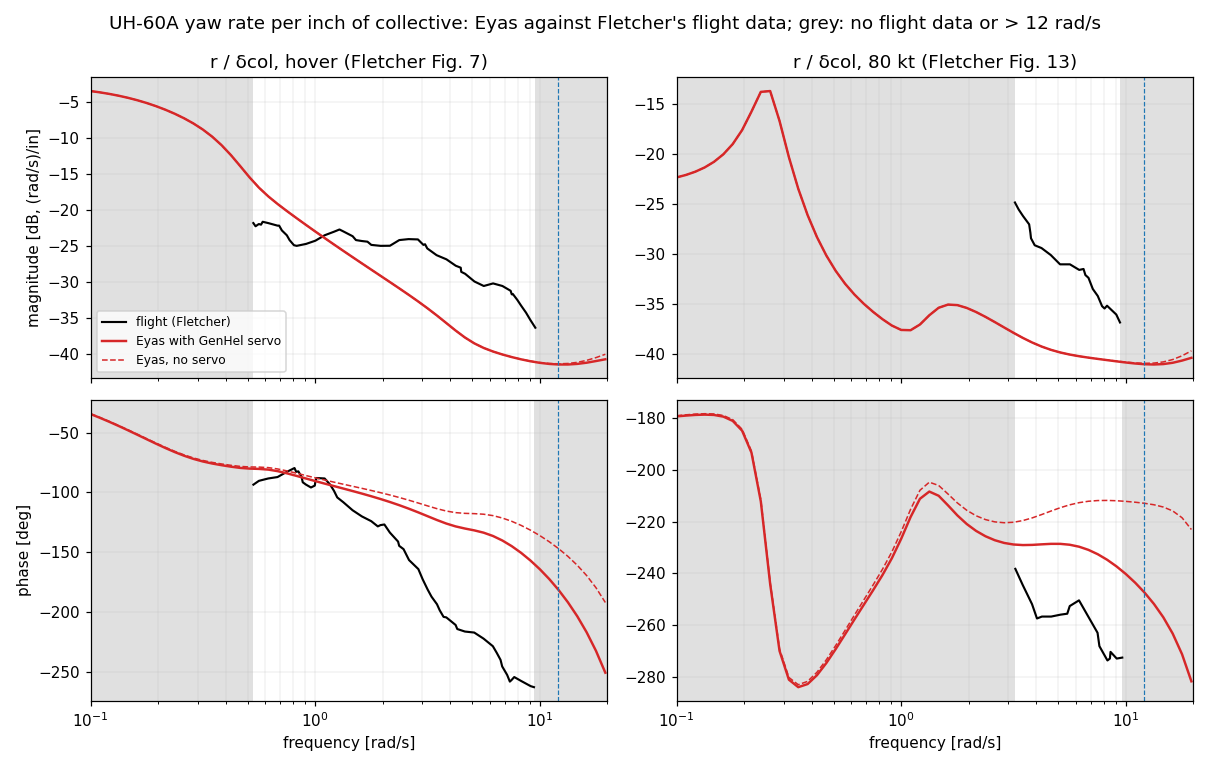
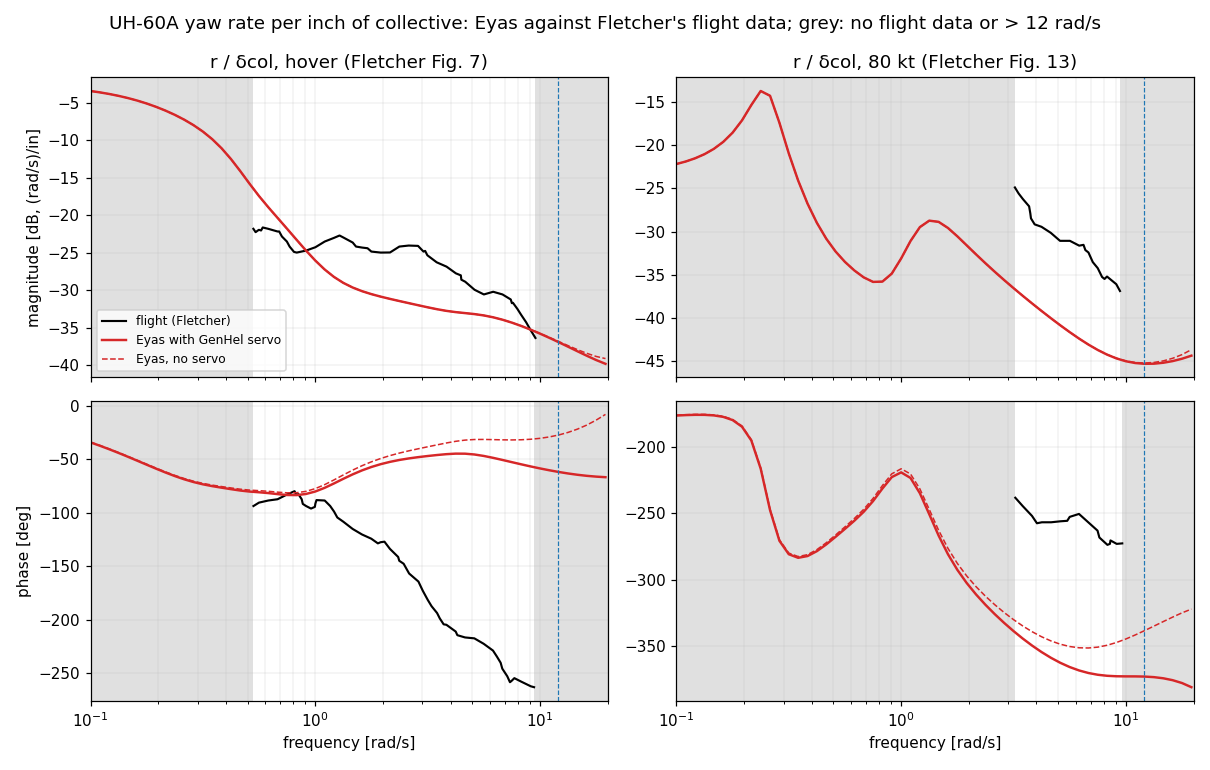
M9 Stage B1 validation: engine trims, collective step, Fletcher and FPS against flight data
- eyas_m9_engine_cases + tools/plot_m9_engines.py (nightly): level trims
  on the engines at sea level and 5250 ft, and a hover collective step
  against the rotor speed held.
- VALIDATION.md M9 Stage B entry: the checks, the trims (0.21 % droop at
  sea-level hover within GenHel's table resolution), the collective step
  (rotor speed first rises, as Ballin reports for GenHel's engine model),
  Fletcher's yaw rate to collective (magnitude closer, phase further off),
  the FPS collective-to-yaw case (unchanged, open), the J_REST correction,
  decisions, timing (step() 6-9 % slower, within budget), and next: Ballin's
  component-level T700 model (NASA TM-100991).
- M7c's Fletcher plots re-recorded on the engines; gap register updated.
- CLAUDE.md: status, src/engine/, the TM-100991 reference.

Claude-Session: https://claude.ai/code/session_01URPo1vS9ZdajqvD2QM5iLx

diff --git a/tests/validation/m9_engine_cases.cpp b/tests/validation/m9_engine_cases.cpp
@@ -1,0 +1,177 @@
+// Writes the M9 Stage B engine data to CSV for VALIDATION.md
+// (tools/plot_m9_engines.py; D-053):
+// - m9_engine_trims.csv: the UH-60A (data/uh60a/uh60a.yaml, GenHel's 16 638
+//   lbm, ISA, bare) in level flight at 0-150 kt, sea level and 5250 ft, each
+//   from the last: the rotor speed and the trim's period, the gas-generator
+//   speed N_GG against the load-demand spindle's N_GG,LDS, the ECU's V_SS (A_U
+//   = 0 V: saturated), the engines' torque per engine at the power turbine and
+//   the governor's mode (Q_INT's limit);
+// - m9_engine_step.csv: from the sea-level and 5250 ft hover trims, a 0.05
+//   collective step (half an inch) held for 10 s, the body free, no
+//   stability augmentation: the rotor speed, the engines' torque Q_E referred
+//   to the rotor, N_GG, the fuel flow and the yaw rate, every 0.05 s; and the
+//   same step with the rotor shaft held at its governed speed (an ideal
+//   drive, Stage A), for the yaw rate the engines change.
+//
+// Usage: eyas_m9_engine_cases <output-dir>
+
+#include <cmath>
+#include <cstdio>
+#include <exception>
+#include <filesystem>
+#include <fstream>
+#include <iostream>
+#include <string>
+#include <vector>
+
+#include "analysis/free_flight.hpp"
+#include "analysis/held_orbit.hpp"
+#include "analysis/trim.hpp"
+#include "core/rigid_body.hpp"
+#include "core/rk4.hpp"
+#include "engine/genhel_t700.hpp"
+#include "sim/build.hpp"
+#include "support/m6d_fixtures.hpp"
+#include "support/m7c_ballin.hpp"
+#include "util/config.hpp"
+#include "util/units.hpp"
+
+namespace {
+
+using namespace eyas;
+
+constexpr double kFtLbf = units::kFoot * units::kPoundForce;  // [N·m]
+constexpr double kLbmHr = units::kPoundMass / 3600.0;         // [kg/s]
+
+Executive build(const Config& cfg) {
+    return build_executive(cfg, read_origin(cfg).origin().altitude);
+}
+
+// The engine component and its offset in the full state, or null.
+struct EngineAt {
+    const GenHelT700* engine = nullptr;
+    std::size_t offset = 0;
+};
+EngineAt find_engine(const Executive& ex) {
+    for (std::size_t i = 0; i < ex.num_components(); ++i) {
+        if (const auto* e = dynamic_cast<const GenHelT700*>(&ex.component(i))) {
+            return {e, ex.component_offset(i)};
+        }
+    }
+    return {};
+}
+
+TrimCondition level(double kt, double feet) {
+    TrimCondition c;
+    c.airspeed = kt * units::kKnot;
+    c.altitude = feet * units::kFoot;
+    return c;
+}
+
+void write_trims(const Executive& ex, const std::filesystem::path& dir) {
+    const EngineAt e = find_engine(ex);
+    std::ofstream f(dir / "m9_engine_trims.csv");
+    f.precision(10);
+    f << "# UH-60A level trims on GenHel's T700s (D-053): rotor speed, N_GG against the "
+         "spindle's schedule, the ECU, the engines' torque\n";
+    f << "altitude_ft,airspeed_kt,converged,collective,rotor_speed_pct,period_s,n_gg_pct,"
+         "n_gg_lds_pct,vss_v,q_pt_per_engine_ftlbf,high_gain\n";
+    for (const double feet : {0.0, 5250.0}) {
+        TrimResult prev;
+        bool have = false;
+        for (int kt = 0; kt <= 150; kt += 10) {
+            std::vector<double> x;
+            const TrimCondition c = level(kt, feet);
+            const TrimResult r = solve_trim(ex, c, have ? &prev : nullptr, x);
+            prev = r;
+            have = r.converged;
+            const double omega = x[ex.shaft_offset(0) + 1];
+            const std::span<const double> xe(x.data() + e.offset, GenHelT700::kNumStates);
+            const GenHelT700Signals s = e.engine->signals(xe, omega, r.controls.collective, 0.0);
+            f << feet << ',' << kt << ',' << (r.converged ? 1 : 0) << ',' << r.controls.collective
+              << ',' << 100.0 * omega / ex.shafts()[0].speed << ',' << r.period << ','
+              << 100.0 * s.n_gg << ',' << 100.0 * s.n_gg_lds << ',' << xe[GenHelT700::kVss] << ','
+              << s.q_pt / kFtLbf << ',' << (s.high_gain ? 1 : 0) << '\n';
+            std::cout << feet << " ft " << kt << " kt: converged " << r.converged << ", Nr "
+                      << 100.0 * omega / ex.shafts()[0].speed << " %\n";
+        }
+    }
+}
+
+// A collective step from the hover trim at `feet`, held for `seconds`: one
+// row every 0.05 s.
+void write_step(std::ofstream& f, const Executive& ex, const std::string& drive, double feet,
+                double step, double seconds) {
+    const EngineAt e = find_engine(ex);
+    const TrimCondition c = level(0.0, feet);
+    std::vector<double> x;
+    const TrimResult r = solve_trim(ex, c, nullptr, x);
+    if (!r.converged) {
+        throw std::runtime_error("m9 engines: hover trim did not converge at " +
+                                 std::to_string(feet) + " ft");
+    }
+    const Environment env = trim_environment(c);
+    const double dt = trim_period(ex, r) / 64.0;
+    Controls u = r.controls;
+    u.collective += step;
+    Rk4 rk4(x.size());
+    std::vector<double> xd(x.size());
+    const double governed = ex.shafts()[0].speed;
+    const int every = static_cast<int>(std::lround(0.05 / dt));
+    const int steps = static_cast<int>(std::lround(seconds / dt));
+    for (int n = 0; n <= steps; ++n) {
+        if (n % every == 0) {
+            const double t = n * dt;
+            const double omega = x[ex.shaft_offset(0) + 1];
+            const BodyState b = unpack_body(x);
+            double q_e = 0.0;
+            double n_gg = 0.0;
+            double fuel = 0.0;
+            if (e.engine != nullptr) {
+                const std::span<const double> xe(x.data() + e.offset, GenHelT700::kNumStates);
+                const GenHelT700Signals s = e.engine->signals(xe, omega, u.collective, 0.0);
+                q_e = s.q_engine;
+                n_gg = s.n_gg;
+                fuel = s.fuel * e.engine->config().engines;
+            }
+            f << feet << ',' << drive << ',' << t << ',' << 100.0 * omega / governed << ','
+              << q_e / kFtLbf << ',' << 100.0 * n_gg << ',' << fuel / kLbmHr << ','
+              << b.omega_b.z() / units::kDegree << '\n';
+        }
+        if (n < steps) {
+            (void)free_step(ex, rk4, [&](double) { return u; }, env, n * dt, dt, x);
+        }
+    }
+}
+
+}  // namespace
+
+int main(int argc, char** argv) {
+    if (argc != 2) {
+        std::cerr << "usage: eyas_m9_engine_cases <output-dir>\n";
+        return 2;
+    }
+    try {
+        const std::filesystem::path dir(argv[1]);
+        std::filesystem::create_directories(dir);
+        const Executive ex = build(Config::from_file(test::uh60a_config_path()));
+        write_trims(ex, dir);
+        // Held: the same aircraft with its rotor shaft on an ideal drive.
+        const Executive held = build(test::ballin::ideal_shaft_config());
+        std::ofstream f(dir / "m9_engine_step.csv");
+        f.precision(10);
+        f << "# UH-60A, 0.05 collective step from the hover trim, 10 s, no stability "
+             "augmentation: on GenHel's T700s (free) and with the rotor speed held (ideal)\n";
+        f << "altitude_ft,drive,time_s,rotor_speed_pct,engine_torque_ftlbf,n_gg_pct,"
+             "fuel_lbm_hr,yaw_rate_deg_s\n";
+        for (const double feet : {0.0, 5250.0}) {
+            write_step(f, ex, "free", feet, 0.05, 10.0);
+            write_step(f, held, "ideal", feet, 0.05, 10.0);
+            std::cout << "collective step at " << feet << " ft done\n";
+        }
+    } catch (const std::exception& err) {
+        std::cerr << "eyas_m9_engine_cases: " << err.what() << '\n';
+        return 1;
+    }
+    return 0;
+}

diff --git a/tools/plot_m9_engines.py b/tools/plot_m9_engines.py
@@ -1,0 +1,93 @@
+"""Plots for the M9 Stage B (engines) entry in docs/VALIDATION.md.
+
+Reads the CSVs written by the eyas_m9_engine_cases executable (D-053) and writes PNGs.
+
+    cmake --build --preset release
+    ./build/release/tests/eyas_m9_engine_cases build/m9_engine_cases
+    .venv/bin/python tools/plot_m9_engines.py build/m9_engine_cases docs/validation/m9
+"""
+
+import csv
+import math
+import sys
+from pathlib import Path
+
+import matplotlib
+
+matplotlib.use("Agg")
+import matplotlib.pyplot as plt  # noqa: E402
+
+GOVERNED = 27.0  # [rad/s] the UH-60A's governed rotor speed (GenHel OMEGA)
+ALTITUDES = ((0.0, "sea level", "C0"), (5250.0, "5250 ft", "C1"))
+
+
+def rows(path):
+    with open(path) as f:
+        return list(csv.DictReader(line for line in f if not line.startswith("#")))
+
+
+def plot_trims(data, outdir):
+    fig, ax = plt.subplots(3, 1, figsize=(7.5, 9.0), sharex=True)
+    for feet, label, color in ALTITUDES:
+        r = [x for x in data if float(x["altitude_ft"]) == feet and x["converged"] == "1"]
+        kt = [float(x["airspeed_kt"]) for x in r]
+        # The revolution's mean speed, 2π/T, not the 4/rev ripple at t = 0.
+        nr = [100.0 * 2.0 * math.pi / (float(x["period_s"]) * GOVERNED) for x in r]
+        ax[0].plot(kt, nr, "o-", color=color, label=label)
+        ax[1].plot(kt, [float(x["n_gg_pct"]) for x in r], "o-", color=color,
+                   label=f"N_GG, {label}")
+        ax[1].plot(kt, [float(x["n_gg_lds_pct"]) for x in r], "--", color=color,
+                   label=f"spindle's N_GG,LDS, {label}")
+        ax[2].plot(kt, [float(x["vss_v"]) for x in r], "o-", color=color, label=label)
+    ax[0].set_ylabel("rotor speed [% of governed]")
+    ax[0].set_title("UH-60A level trims on GenHel's T700s (D-053)")
+    ax[1].set_ylabel("gas-generator speed [%]")
+    ax[2].set_ylabel("ECU integrator V_SS [V]")
+    ax[2].axhline(0.0, color="grey", lw=0.8)
+    ax[2].text(2, 0.03, "A_U = 0 V: the ECU can only trim the spindle down", fontsize=8)
+    ax[2].set_xlabel("airspeed [kt]")
+    for a in ax:
+        a.grid(True, alpha=0.3)
+        a.legend(fontsize=8)
+    fig.tight_layout()
+    fig.savefig(outdir / "m9_engine_trims.png", dpi=110)
+    plt.close(fig)
+
+
+def plot_step(data, outdir):
+    fields = (("rotor_speed_pct", "rotor speed [%]"),
+              ("engine_torque_ftlbf", "engines' torque at the rotor [ft·lbf]"),
+              ("n_gg_pct", "gas-generator speed [%]"),
+              ("yaw_rate_deg_s", "yaw rate [deg/s]"))
+    fig, ax = plt.subplots(len(fields), 2, figsize=(11.0, 10.0), sharex=True)
+    for col, (feet, label, _) in enumerate(ALTITUDES):
+        for drive, name, style in (("free", "on the engines", "-"),
+                                   ("ideal", "rotor speed held", "--")):
+            r = [x for x in data if float(x["altitude_ft"]) == feet and x["drive"] == drive]
+            t = [float(x["time_s"]) for x in r]
+            for i, (key, ylabel) in enumerate(fields):
+                if drive == "ideal" and key != "yaw_rate_deg_s":
+                    continue  # nothing turns the engines on the held shaft
+                ax[i, col].plot(t, [float(x[key]) for x in r], style, label=name)
+                ax[i, col].set_ylabel(ylabel)
+        ax[0, col].set_title(f"0.05 collective step from hover, {label}")
+        ax[-1, col].set_xlabel("time [s]")
+        for a in ax[:, col]:
+            a.grid(True, alpha=0.3)
+        ax[-1, col].legend(fontsize=8)
+    fig.tight_layout()
+    fig.savefig(outdir / "m9_engine_step.png", dpi=110)
+    plt.close(fig)
+
+
+def main():
+    if len(sys.argv) != 3:
+        sys.exit("usage: plot_m9_engines.py <data-dir> <output-dir>")
+    data, out = Path(sys.argv[1]), Path(sys.argv[2])
+    out.mkdir(parents=True, exist_ok=True)
+    plot_trims(rows(data / "m9_engine_trims.csv"), out)
+    plot_step(rows(data / "m9_engine_step.csv"), out)
+
+
+if __name__ == "__main__":
+    main()

diff --git a/CLAUDE.md b/CLAUDE.md
@@ -6,7 +6,7 @@ This file provides guidance to Claude Code (claude.ai/code) when working with co
 
 Eyas is a real-time, piloted rotorcraft flight dynamics model (C++20 library), intended to replace an incumbent commercial flight-dynamics package ("the reference model") in a host simulator. Reference vehicle: UH-60A (GenHel, NASA CR-166309).
 
-The design spec is `docs/EYAS_DESIGN.md`. Review findings are in `docs/SPEC_REVIEW.md`, approved departures in `docs/DECISIONS.md`, and data issues in `docs/DATA_GAPS.md`. Implementation status: M0 (scaffolding), M1 (6-DOF rigid body core) and M2 (ISA atmosphere, dummy rotor, Tier 1 pose, `eyas::Model` API) done; M3 (blade-element rotor, uniform inflow), M4 (rigid flapping blades on an offset hinge, D-026) and M5 (Pitt–Peters dynamic inflow, D-027) done (see `docs/VALIDATION.md`). UH-60A blade twist and SC1095 tables transcribed into `data/uh60a/` (accepted; primary maps checked cursorily, DATA_GAPS.md). M6 (tail rotor, fuselage, empennage, gear; D-028) done, staged M6a–M6d: M6a (component data path, D-003; GenHel tail rotor), M6b (fuselage, empennage, stabilator schedule and the tail rotor's fuselage wake; D-030, D-031), M6c (GenHel landing gear; D-032) and M6d (the UH-60A aircraft config `data/uh60a/uh60a.yaml`, generated by `tools/build_uh60a_config.py`, and the whole-aircraft checks; D-034). M7 (trim and linearization; D-035, which also replaces every reference-model comparison with published data) is staged M7a–M7c: M7a (periodic trim, `Model::trim`; the GenHel control travels), M7b (linearization: periodic, averaged and condensed models, Floquet exponents; D-035 amendment, D-036) and M7c (the UH-60A trims against Ballin's GenHel and flight-test data, NASA TM-88360, gated against Sikorsky GenHel; the frequency responses, rotor parameters and modes against Fletcher's flight-identified data; D-038 to D-040; open gaps and their dispositions in VALIDATION.md M7c and D-041) done. M8 (real-time library and piloted integration; D-042) is staged M8a–M8e: M8a (decoupling and long-run checks, the timing benchmark, output Tiers 2–4 with Gracey's air data, D-043; the `examples/` driver and adapter) and M8b (the desktop pilot station `examples/pilot_station/`, with FlightGear as an optional view and the host-set geodetic origin, D-044) done. M8c (the GenHel flight control system; D-029, D-045) is staged M8c1–M8c3: M8c1 (sensors, mixer and head limits, primary servos, the dynamic stabilator; the trim starts their states on their free-flight orbit, D-045 amendment) and M8c2 (SAS and pitch bias actuator, switched by `Controls::afcs`; modes with the control system's states kept dynamic, `condense(m, retained)`; D-045 M8c2 amendment) done. Ballin's App. D and E step responses (D-046): digitized, the readings human-reviewed, and reported (VALIDATION.md); Fig. E2 flagged (File 210's doubtful Table C1 waterline) and run both as printed and with a stand-in. M8c3 (the FPS, D-045 M8c3 amendment) is staged as library then pilot station: the library FPS is done (`AfcsSwitches::fps`, `fps_turn`, `trim_release`; trims hold FPS references and integrators and report `TrimResult::held_drift_rate`; the yaw integrator wired the physical way; D-042 (a) closed). The M8c3 pilot station is done too (FPS button, trim release, turn-switch latch, recordings that replay their switches). Issue #24 follow-up: GenHel's motion-module additions (the downwash correction terms and spinning parts, p. 5.10-19; D-048) close M7c's zero-roll sideslip gap and match Kaplita's sideslip gradients; every GenHel input-data page is audited in DATA_GAPS.md. M8d (the vortex-ring correction, D-049: Johnson's NASA/TP-2005-213477 model, with two Table 3 misprints corrected and fades at its edges; uniform inflow quasi-static, Pitt–Peters with a lagged VRS thrust deficit) done. M8e (target timing, host adapter, piloted evaluation) is parked: the host system isn't available. M9 has started: ground effect (D-050: GenHel's K_GE or Cheeseman–Bennett by config, on the main rotor's mean inflow; `TrimCondition::ground_height`) is in, gated against USAAEFA's hover power; GenHel's factor reduces the power too little, issue #61 (VALIDATION.md M9). Tip loss on the inflow (D-051: Johnson's effective disc of radius B·R on both inflow models, `inflow_tip_loss`; the Pitt–Peters thrust row is that disc's) is in; the remaining induced losses (nonuniform inflow) are issue #66. The rotor speed (issue #39) is staged A–C (D-052): Stage A, shafts as degrees of freedom of the executive in the coupled solve, with the UH-60A's rotors on one `ideal` shaft, is in; B (engines, governor, clutch) and C (Tier 4 outputs, pilot station) follow.
+The design spec is `docs/EYAS_DESIGN.md`. Review findings are in `docs/SPEC_REVIEW.md`, approved departures in `docs/DECISIONS.md`, and data issues in `docs/DATA_GAPS.md`. Implementation status: M0 (scaffolding), M1 (6-DOF rigid body core) and M2 (ISA atmosphere, dummy rotor, Tier 1 pose, `eyas::Model` API) done; M3 (blade-element rotor, uniform inflow), M4 (rigid flapping blades on an offset hinge, D-026) and M5 (Pitt–Peters dynamic inflow, D-027) done (see `docs/VALIDATION.md`). UH-60A blade twist and SC1095 tables transcribed into `data/uh60a/` (accepted; primary maps checked cursorily, DATA_GAPS.md). M6 (tail rotor, fuselage, empennage, gear; D-028) done, staged M6a–M6d: M6a (component data path, D-003; GenHel tail rotor), M6b (fuselage, empennage, stabilator schedule and the tail rotor's fuselage wake; D-030, D-031), M6c (GenHel landing gear; D-032) and M6d (the UH-60A aircraft config `data/uh60a/uh60a.yaml`, generated by `tools/build_uh60a_config.py`, and the whole-aircraft checks; D-034). M7 (trim and linearization; D-035, which also replaces every reference-model comparison with published data) is staged M7a–M7c: M7a (periodic trim, `Model::trim`; the GenHel control travels), M7b (linearization: periodic, averaged and condensed models, Floquet exponents; D-035 amendment, D-036) and M7c (the UH-60A trims against Ballin's GenHel and flight-test data, NASA TM-88360, gated against Sikorsky GenHel; the frequency responses, rotor parameters and modes against Fletcher's flight-identified data; D-038 to D-040; open gaps and their dispositions in VALIDATION.md M7c and D-041) done. M8 (real-time library and piloted integration; D-042) is staged M8a–M8e: M8a (decoupling and long-run checks, the timing benchmark, output Tiers 2–4 with Gracey's air data, D-043; the `examples/` driver and adapter) and M8b (the desktop pilot station `examples/pilot_station/`, with FlightGear as an optional view and the host-set geodetic origin, D-044) done. M8c (the GenHel flight control system; D-029, D-045) is staged M8c1–M8c3: M8c1 (sensors, mixer and head limits, primary servos, the dynamic stabilator; the trim starts their states on their free-flight orbit, D-045 amendment) and M8c2 (SAS and pitch bias actuator, switched by `Controls::afcs`; modes with the control system's states kept dynamic, `condense(m, retained)`; D-045 M8c2 amendment) done. Ballin's App. D and E step responses (D-046): digitized, the readings human-reviewed, and reported (VALIDATION.md); Fig. E2 flagged (File 210's doubtful Table C1 waterline) and run both as printed and with a stand-in. M8c3 (the FPS, D-045 M8c3 amendment) is staged as library then pilot station: the library FPS is done (`AfcsSwitches::fps`, `fps_turn`, `trim_release`; trims hold FPS references and integrators and report `TrimResult::held_drift_rate`; the yaw integrator wired the physical way; D-042 (a) closed). The M8c3 pilot station is done too (FPS button, trim release, turn-switch latch, recordings that replay their switches). Issue #24 follow-up: GenHel's motion-module additions (the downwash correction terms and spinning parts, p. 5.10-19; D-048) close M7c's zero-roll sideslip gap and match Kaplita's sideslip gradients; every GenHel input-data page is audited in DATA_GAPS.md. M8d (the vortex-ring correction, D-049: Johnson's NASA/TP-2005-213477 model, with two Table 3 misprints corrected and fades at its edges; uniform inflow quasi-static, Pitt–Peters with a lagged VRS thrust deficit) done. M8e (target timing, host adapter, piloted evaluation) is parked: the host system isn't available. M9 has started: ground effect (D-050: GenHel's K_GE or Cheeseman–Bennett by config, on the main rotor's mean inflow; `TrimCondition::ground_height`) is in, gated against USAAEFA's hover power; GenHel's factor reduces the power too little, issue #61 (VALIDATION.md M9). Tip loss on the inflow (D-051: Johnson's effective disc of radius B·R on both inflow models, `inflow_tip_loss`; the Pitt–Peters thrust row is that disc's) is in; the remaining induced losses (nonuniform inflow) are issue #66. The rotor speed (issue #39) is staged A–C (D-052): Stage A, shafts as degrees of freedom of the executive in the coupled solve, is in; Stage B1, GenHel's T700 engines, governor and clutch (`src/engine/genhel_t700`, D-053 and amendments), is in: the UH-60A's rotors on a `free` shaft, trim and linearization with the rotor speed free, validated (VALIDATION.md M9 Stage B; GenHel's engine model's yaw-phase shortfall is GenHel's, per Ballin). Next: Ballin's component-level T700 and fuel control (NASA TM-100991) as a second engine type, then B2 (limits, idle, engine failure) and C (Tier 4 outputs, pilot station).
 
 ## How to treat the spec
 
@@ -45,6 +45,7 @@ The reference documents live outside this repo, in a local reference directory. 
 | Gracey, *Measurement of Aircraft Speed and Altitude*, NASA RP-1046 (1980) | Public NASA report, scanned with no text layer: read from images. Ch. III: impact pressure, calibrated and equivalent airspeed, pressure altitude (geopotential); Table A13 (CAS to TAS). Book page = PDF page − 14. M8a air data (D-043). |
 | Kaplita, NASA CR-177360 (USAAVSCOM TR 85-A-2, 1985) | Public (released 1987); Sikorsky's GenHel against the USAAEFA Project 79-24 flight test. Scanned at 600 dpi on graph paper, no text layer: read from images. Steady-heading sideslips Figs. 10–13 (PDF pp. 71–77), stabilator sweep Fig. 18, step and doublet responses Figs. 1–8 (Figs. 2 and 4 digitized and reviewed, `tools/digitize_kaplita_transients.py`). Book page = PDF page − 14. Stabilator issue #24. |
 | Johnson, NASA/TP-2005-213477 (2005), *Model for Vortex Ring State Influence on Rotorcraft Flight Dynamics* | Public NASA report; text layer (typeset), plots as figures. The VRS model: Table 3 (algorithm, book p. 23) and Table 4 (parameters, p. 24); its curves Figs. 37–39; D6075 flight-test comparison Figs. 56–60. Two misprints in Table 3, corrected (DATA_GAPS.md). Book page = PDF page − 6. M8d (D-049). |
+| Ballin, NASA TM-100991 (1988), *A High Fidelity Real-Time Simulation of a Small Turboshaft Engine* | Public NASA report; text layer, plots scanned (read values from images). Component-level T700-GE-700 model and the UH-60A fuel control (App. A constants and maps, App. C fuel control); closed-loop validation in GenHel against USAAEFA flight test. M9 engine. |
 | USAAEFA, *Airworthiness and Flight Characteristics Test of a Sixth Year Production UH-60A*, DTIC ADA180181 (1985) | Public (distribution unlimited); text layer. Performance only: hover and level-flight power, ship's airspeed calibration, production stabilator schedule. |
 
 **Reading scans:** poppler isn't installed, so the Read tool can't render PDFs. Use PyMuPDF (`python3 -I`, `import fitz`) to extract text or render a page with `page.get_pixmap(dpi=...)` (use `prerotate(90)` for rotated pages), then Read the PNG. For DjVu: search with `djvutxt --page=N`, render with `ddjvu -format=tiff -page=N`, convert to PNG with PyMuPDF.
@@ -97,7 +98,7 @@ clang-tidy -p build/debug src/util/*.cpp src/sim/*.cpp src/core/*.cpp src/env/*.
 - **Target platform:** Eyas and its host run in a RHEL 9 container, on a Linux server running RHEL 8 or RHEL 9 (D-005, D-037). Build with RHEL 9's system GCC 11 (configure rejects GCC < 11 with instructions); CMake there is 3.26–3.31. Pin the compiler per build, since determinism is per build and compiler.
 - **CI:** `.github/workflows/ci.yml` on every push and PR (Ubuntu GCC/Clang, ASan at `-O1` with assertions (`asan-fast`), a Rocky Linux 9 container, format, and tidy on the files a PR changes; tests in parallel, compiled objects cached with ccache). On a PR the slow tests (`SLOW_TESTS`: every test over about 1 s in Release) run in the Release jobs only; the Debug, Clang and ASan jobs skip them. Add a test there if it takes more than about 1 s in Release. `.github/workflows/full-verification.yml` runs nightly and on demand: every test under the strict ASan build (`asan`, Debug `-Og`) split four ways with 6 h limits, every test with Clang (Debug), tidy on every file, and every validation generator and plot (artifact; all run even if one fails). A failed nightly opens an issue (D-037 and its 2026-10-21 amendment). Add a new generator to its loop. To reproduce the Rocky job locally: `docker run --rm -v "$PWD":/src:ro rockylinux:9 ...`, configuring out-of-tree with `cmake -S /src -B /tmp/build`.
 - **Real-time test hook:** `tests/support/alloc_counter.hpp` (`AllocationCounter`) counts heap allocations in a scope through replaced global `operator new`. Use it to assert zero allocations for anything reachable from `advance()`.
-- **Layout:** `src/util/` holds init-time helpers (units, axis and tables, CSV and YAML loaders) and small numeric helpers (`math`: `smoothstep`); `src/core/` the shared types, the §6 component interfaces, the D-003 coupling store (`coupling`), the rigid body, RK4 and Euler output; `src/env/` the ISA atmosphere (D-015, with the pressure-altitude inverse), the air-data relations (`air_data`, D-043) and the geodetic map (D-017); `src/rotor/` rotor models (the `blade_element_rotor` (M3, plus the M4 flap hinge, the M5 Pitt–Peters inflow in `pitt_peters`, the M8d vortex-ring correction in `vortex_ring` and the M9 ground effect in `ground_effect`; the M9 tip loss on the inflow is in `blade_element_rotor` and `pitt_peters`), its airfoil tables, control map, hub frame and multiblade coordinates, the M6 GenHel tail rotor `bailey_rotor`, the GenHel main-rotor wash maps `rotor_wash`, and the M2 `ideal_thrust` dummy); `src/airframe/` the GenHel fuselage and empennage aerodynamics (`airframe_aero`, M6b) and landing gear (`landing_gear`, M6c); `src/control/` the GenHel flight control system (`genhel_fcs`: sensors, mixer, servos, stabilator, SAS, PBA and FPS; M8c, D-045); `src/analysis/` the shared held orbit, trim (M7a) and linearization (M7b); `src/sim/` the executive, `Model`, the config readers that build an aircraft (`build`) and the recorder. `include/eyas/` holds the public API (`Model`, `AircraftState`, the value types and `InitError`; D-018, D-020), which must never include `src/` headers (checked by `eyas_api_tests`, built without `src/` on its include path); `bench/` the timing benchmark (`eyas_bench`: step() and advance() mean, p99, max; `--load N` for host load; D-005, D-042); `examples/` the scripted driver (`drive/`), the reference adapter (`adapter/`), the desktop pilot station (`pilot_station/`: control mapping, FlightGear link, start points and recorder in `eyas_station_core`, tested by `eyas_station_tests`; the GLFW/OpenGL window when both are found) and their shared CSV code (`common/`), public API only; `tools/` offline Python (`tools/requirements.txt`, run from a git-ignored `.venv`); `tests/validation/` generators for VALIDATION.md data; `tests/support/` shared fixtures, including the exact-equation references (`bet_reference.hpp` for M3, `flap_reference.hpp` for M4, `pitt_peters_reference.hpp` for M5, `genhel_tail_rotor.hpp`, `genhel_airframe.hpp` and `genhel_gear.hpp` for M6), the M6d whole-aircraft harness (`m6d_fixtures.hpp`, which wraps the executive's held-body evaluation), the M8a long runs (`m8a_long_runs.hpp`, D-042) and `bit_identical.hpp`, the M7 fixtures and helpers (`m7_fixtures.hpp`: the symmetric coaxial hover fixture and free flight; `m7b_support.hpp`: the L3 and L4 helpers; `m7c_ballin.hpp`: the Ballin conditions, trims and digitized curves for the V1 gate), Ballin's App. D and E runs (`ballin_app_d.hpp`, D-046), the FPS's exact-equation reference (`genhel_fps_reference.hpp`) and flights (`m8c3_fps.hpp`), the independent transcriptions of Johnson's VRS model (`vrs_reference.hpp`) and of the two ground-effect models (`ground_effect_reference.hpp`), and the M4 closed forms; `tests/data/` synthetic test tables (never aircraft data).
+- **Layout:** `src/util/` holds init-time helpers (units, axis and tables, CSV and YAML loaders) and small numeric helpers (`math`: `smoothstep`); `src/core/` the shared types, the §6 component interfaces, the D-003 coupling store (`coupling`), the rigid body, RK4 and Euler output; `src/env/` the ISA atmosphere (D-015, with the pressure-altitude inverse), the air-data relations (`air_data`, D-043) and the geodetic map (D-017); `src/rotor/` rotor models (the `blade_element_rotor` (M3, plus the M4 flap hinge, the M5 Pitt–Peters inflow in `pitt_peters`, the M8d vortex-ring correction in `vortex_ring` and the M9 ground effect in `ground_effect`; the M9 tip loss on the inflow is in `blade_element_rotor` and `pitt_peters`), its airfoil tables, control map, hub frame and multiblade coordinates, the M6 GenHel tail rotor `bailey_rotor`, the GenHel main-rotor wash maps `rotor_wash`, and the M2 `ideal_thrust` dummy); `src/airframe/` the GenHel fuselage and empennage aerodynamics (`airframe_aero`, M6b) and landing gear (`landing_gear`, M6c); `src/engine/` engine models (GenHel's T700, `genhel_t700`, D-053); `src/control/` the GenHel flight control system (`genhel_fcs`: sensors, mixer, servos, stabilator, SAS, PBA and FPS; M8c, D-045); `src/analysis/` the shared held orbit, trim (M7a) and linearization (M7b); `src/sim/` the executive, `Model`, the config readers that build an aircraft (`build`) and the recorder. `include/eyas/` holds the public API (`Model`, `AircraftState`, the value types and `InitError`; D-018, D-020), which must never include `src/` headers (checked by `eyas_api_tests`, built without `src/` on its include path); `bench/` the timing benchmark (`eyas_bench`: step() and advance() mean, p99, max; `--load N` for host load; D-005, D-042); `examples/` the scripted driver (`drive/`), the reference adapter (`adapter/`), the desktop pilot station (`pilot_station/`: control mapping, FlightGear link, start points and recorder in `eyas_station_core`, tested by `eyas_station_tests`; the GLFW/OpenGL window when both are found) and their shared CSV code (`common/`), public API only; `tools/` offline Python (`tools/requirements.txt`, run from a git-ignored `.venv`); `tests/validation/` generators for VALIDATION.md data; `tests/support/` shared fixtures, including the exact-equation references (`bet_reference.hpp` for M3, `flap_reference.hpp` for M4, `pitt_peters_reference.hpp` for M5, `genhel_tail_rotor.hpp`, `genhel_airframe.hpp` and `genhel_gear.hpp` for M6), the M6d whole-aircraft harness (`m6d_fixtures.hpp`, which wraps the executive's held-body evaluation), the M8a long runs (`m8a_long_runs.hpp`, D-042) and `bit_identical.hpp`, the M7 fixtures and helpers (`m7_fixtures.hpp`: the symmetric coaxial hover fixture and free flight; `m7b_support.hpp`: the L3 and L4 helpers; `m7c_ballin.hpp`: the Ballin conditions, trims and digitized curves for the V1 gate), Ballin's App. D and E runs (`ballin_app_d.hpp`, D-046), the FPS's exact-equation reference (`genhel_fps_reference.hpp`) and flights (`m8c3_fps.hpp`), the independent transcriptions of Johnson's VRS model (`vrs_reference.hpp`) and of the two ground-effect models (`ground_effect_reference.hpp`), and the M4 closed forms; `tests/data/` synthetic test tables (never aircraft data).
 
 ## Architecture (intended design per spec §5–6)
 

diff --git a/docs/VALIDATION.md b/docs/VALIDATION.md
@@ -737,7 +737,7 @@ Every M7c difference that isn't explained by the data's accuracy, with where it 
 | Slow on-axis response below 1.5 rad/s | Hover pitch +3.7 dB; 80 kt phase lead 27° (roll), 43° (pitch) | At 80 kt, M_u < 0 from the held stabilator in the rotor downwash, as simple wake theory gives | Parked |
 | 80 kt phugoid-type divergence | +0.289 1/s | Same cause as the line above | Parked |
 | Off-axis angular rates | Phase off by 140–160° (hover) | Known limitation of Pitt–Peters without wake distortion | M9 wake distortion (D-041) |
-| Yaw rate to collective, hover | −3.8 dB mean, +43° | Rotor speed and engine dynamics (Fletcher) | M9 drivetrain |
+| Yaw rate to collective, hover | −3.8 dB mean, +43°; on GenHel's engines (M9 Stage B) −2.5 dB, +96° | Rotor speed and engine dynamics (Fletcher); GenHel's engine model's rotor-speed response to collective (Ballin TM-88360 p. 12) | M9: NASA T700 model (TM-100991) next |
 | Yaw rate to collective, 80 kt | −8 dB | Unexplained; Fletcher's BE model misses it too | Parked |
 | Tail-rotor torque | Not modelled | DATA_GAPS.md | M9 |
 | Steady turns (B5) | Not compared | Needs an interface change | M8 or later (D-035) |
@@ -885,8 +885,8 @@ Cruise main-rotor power is in D-039 (mean −45 hp against GenHel); with GenHel'
   | hover | −3.8 / 6.6 | +42.8 / 59.2 |
   | 80 kt | −8.1 / 8.4 | +24.3 / 25.5 |
 
-  - *Hover:* Eyas matches near 0.5–1 rad/s, then falls off faster than the flight data (about 10 dB low by 5–8 rad/s), and the flight lags up to about 110° more. Fletcher (p. VII-4-4) puts the UH-60's yaw/heave coupling in hover down to rotor speed and engine/governor dynamics, which his identified model and BE model B include and Eyas doesn't (M9). This is the baseline the M9 drivetrain must improve.
-  - *80 kt:* Eyas is 8 dB low across the band. Fletcher finds the blade-element model he compares at 80 kt also mismatched, "greater than in hover", and his identified model fits without drivetrain dynamics, so the drivetrain "is not the source of the problem" (p. VII-4-11). Parked (D-041). Eyas's tail rotor has no torque yet (DATA_GAPS.md, M9), but that is a power term, not this response's.
+  - *Hover:* Eyas matches near 0.5–1 rad/s, then falls off faster than the flight data (about 10 dB low by 5–8 rad/s), and the flight lags up to about 110° more. Fletcher (p. VII-4-4) puts the UH-60's yaw/heave coupling in hover down to rotor speed and engine/governor dynamics, which his identified model and BE model B include and Eyas doesn't (M9). This is the baseline the M9 drivetrain must improve. *Since M9 Stage B* (GenHel's T700s, D-053) the plot shows the aircraft on its engines: the magnitude comes closer (−2.5 / 4.6 dB) and the phase goes further off (+96 / 122°); see the M9 Stage B entry.
+  - *80 kt:* Eyas is 8 dB low across the band (on the engines since M9 Stage B: −10.0 / 10.1 dB, phase −103 / 104°). Fletcher finds the blade-element model he compares at 80 kt also mismatched, "greater than in hover", and his identified model fits without drivetrain dynamics, so the drivetrain "is not the source of the problem" (p. VII-4-11). Parked (D-041). Eyas's tail rotor has no torque yet (DATA_GAPS.md, M9), but that is a power term, not this response's.
 - *Not compared:* the heave responses to pedal (Figs. 8 and 14), which V2 doesn't list.
 
 ### V2: rotor parameters against Fletcher's Table 1 (reported)
@@ -1615,3 +1615,44 @@ The rotor speed becomes a degree of freedom (D-052). Shafts are executive states
 | Trim and linearization | ✅ (ideal) | Each shaft starts at ψ = 0 at its governed speed; ψ is a phase, not a trim unknown or linear-model state. Free shafts are refused until the engines (Stage B) give them an equilibrium. |
 
 No plots in Stage A: with the ideal drive nothing a plot would show moves. Stage B (engines, governor, clutch) brings the rotor-speed responses and their checks against GenHel and flight test.
+
+## M9 — Rotor speed, Stage B1: GenHel's T700 engines, governor and clutch (2026-10-23; issue #39)
+
+The UH-60A's rotors turn on a `free` shaft driven by GenHel's T700s (CR-166309 §5.6; D-053 and its amendments 2–4): the gas generator, the hydromechanical fuel control and the electronic control unit (ECU) with its high/low-gain switch, re-anchored on GenHel's steady-state maps (Tables 6.5.1–6.5.6, transcribed from the page images); a clutch with a slip state; losses; the spools' momentum. Trim solves the rotor speed and the revolution's period; the linear models carry the shaft's azimuth and speed.
+
+| Check | Status | Evidence |
+|---|---|---|
+| GenHel's equations as printed | ✅ | `GenHelT700.EcuMatchesGenHelAsPrinted`: driven by the same rotor speed through low gain, high gain and V_SS on its limits, the ECU's states equal an independent transcription of GenHel's incremental equations (`tests/support/genhel_t700_reference.hpp`) to one integration step's overshoot past a limit (2.1e-6 at h = 1e-4 s, 1.2e-6 at h/2). `GasGeneratorMatchesGenHelToSecondOrder`: where GenHel's partials agree with its maps' slopes, the re-anchored gas generator is GenHel's to second order in the departure from trim. |
+| Closed forms | ✅ | `SteadyStatesLieOnTheMaps`; `GovernorIsIsochronous` (rotor speed back to 27 rad/s within 1e-7 after a 50 % load step); `ClutchLetsGoAndTakesUp`; `ConservesAngularMomentum` (engine, clutch disengaged, spools on a tumbling airframe); `SwitchIntegratorTurnsAt339FootPounds`. |
+| Uniform gravity changes nothing on the shaft | ✅ | `Linearize.GravityAndKinematicEntriesAreExact` (M7b's L1 gate) caught the engine's losses and clutch demand using the rotor's torque without its body-acceleration terms; with them (`LossesAndDemandFollowTheRotorsAccelerationTerms`) it passes at 1e-7 as before. |
+| Trim | ✅ | `Trim.Uh60aRotorOnEnginesClosesItsRevolution`: the sea-level hover droops 0.21 % (Ω = 26.944 rad/s, the ECU at A_U) and its revolution closes, Ω T = 2π; at 5250 ft the governor holds 27 rad/s to 1e-6. Every level trim 0–150 kt, sea level and 5250 ft, converges (below); the vortex-ring descents converge with the two-stage cold start. |
+| Linearization | ✅ | `Linearize.RotorSpeedIsAStateOnAFreeShaft`: a rotor-speed perturbation at the 5250 ft hover is followed by the periodic linear model with an error falling with the amplitude (1.4e-4, 6.5e-5, 2.7e-5); without the shaft's azimuth as a state it was 1.7 % at every amplitude. `PinnedEngineStatesAreHeld`: the engaged clutch's slip and the limited integrators are held, in the linear model and the flow map (differenced across the switch they gave entries of 2.8e7 and Floquet exponents of 40 and 11). |
+| Real-time | ✅ | `GenHelT700.AllocatesNothing`; `eyas_bench` against Stage A on the same machine: step() 6–9 % slower (hover 15.3 to 16.3 µs, 120 kt 15.1 to 16.5 µs), every advance() within budget. |
+
+**Trims.** `eyas_m9_engine_cases` trims the UH-60A in level flight at sea level and 5250 ft (`tools/plot_m9_engines.py`). The load-demand spindle schedules more gas-generator speed than the torque needs at 5250 ft (by 0.9–2.3 %) and the ECU trims it down, holding 27 rad/s; at sea level it schedules 0.17 % too little in hover and at 10 kt, the ECU sits at its upper limit (A_U = 0 V: it can only trim down) and the rotor droops 0.21 %. That droop is within the resolution of GenHel's tables (Table 6.5.1 gives N_GG to 0.1 % at 6000 ft·lbf spacing), so it is reported as a consequence of GenHel's data, not a prediction. Every trim runs in the governor's low gain (140–306 ft·lbf per engine, below the switch at 339).
+
+![Engine trims](validation/m9/m9_engine_trims.png)
+
+**A collective step.** From each hover trim, 0.05 collective (half an inch) held for 10 s, no stability augmentation, against the same step with the rotor speed held (Stage A). The engines' torque jumps within about 0.1 s, faster than the rotor's demand grows, so the rotor speed first rises (0.08 % at sea level, 0.3 % at 5250 ft) before settling slightly low. That is the behaviour Ballin (NASA TM-88360 p. 12, PDF p. 14) reports for GenHel's engine model: its rotor speed "varies adversely in response to a collective input because of an insufficient level of sophistication of the partial-derivative engine model and fuel control system (detailed in ref. 2) [CR-166309]. Its response is also too fast and is of the wrong magnitude. These rotor speed errors manifest themselves in yaw-acceleration, rate-, and heading-time histories". The yaw rate barely differs from the held rotor's.
+
+![Engine collective step](validation/m9/m9_engine_step.png)
+
+**Against flight data.**
+- *Fletcher's yaw rate to collective (M7c V2; the plot there now shows the aircraft on its engines).* Mean / RMS, Eyas minus flight:
+
+  | | rotor speed held (Stage A) | on GenHel's engines |
+  |---|---|---|
+  | hover, magnitude [dB] | −3.4 / 6.3 | −2.5 / 4.6 |
+  | hover, phase [deg] | +45 / 61 | +96 / 122 |
+  | 80 kt, magnitude [dB] | −8.7 / 9.0 | −10.0 / 10.1 |
+  | 80 kt, phase [deg] | +28 / 29 | −103 / 104 |
+
+  The engines bring the hover magnitude closer and take the phase further off in both conditions, as Ballin's account of GenHel's engine model leads one to expect. The engine is GenHel's as printed (the checks above), so the remaining difference is GenHel's engine model's, not the implementation's. Roll and pitch to cyclic are unchanged to within 0.6 dB and 6° (the largest changes at 80 kt below 1.5 rad/s), computed the same way before and after.
+- *The FPS's collective-to-yaw path at 20 kt (D-045 M8c3).* After a 0.05 collective step the SAS-only aircraft turns 3.4° in 10 s (3.9° with the rotor speed held), with the FPS 1.12° (1.13°), and with the FPS's collective-to-yaw gain KSXCYO zeroed 0.70° (0.76°): the path still overcorrects, its first-second yaw rate swinging from +0.40 to −1.12 deg/s. The engines don't explain it. Open.
+
+**Found and corrected in this validation (D-053 amendment 4).** The remainder of GenHel's J_REST (868 slug·ft²) had been put at rotor speed about the rotor axis, an upper bound on its angular momentum. It moved hover pitch from lateral cyclic by 15 dB and made the 80 kt phugoid unstable (ζ 0.137 to −0.041). GenHel takes its gyroscopics from its p. 5.10-19 list alone, using J_REST only in the rotor-speed equation; Eyas now does the same, and those responses are back to Stage A's. Also corrected while building (D-053 amendments 2 and 3): limiters past their limit return to it; the tail rotor keeps its own azimuth, so its Tier 4 output no longer jumps at each shaft revolution (`Outputs.TailRotorAzimuthIsContinuous`).
+
+**Decisions with the spec owner (D-053 amendment 2).** Ballin's climb and descent comparison holds the rotor speed: at 60 kt from −2000 ft/min and at 100 kt at −3000 ft/min the rotor needs no power at 100 % and would autorotate, which comes with engine-off flight (Stage B2). The M7a sweep's iteration limit is 15 (the two-stage cold start; measured 12). The Dutch-roll gate at 150 kt is relative (the SAS damps at least 4× the bare aircraft, measured 14×): the free rotor, no longer locked to the airframe in yaw, doubles the bare aircraft's damping there.
+
+**Next (agreed 2026-10-23).** Ballin's component-level T700 model and UH-60A fuel control (NASA TM-100991, 1988; public), validated in GenHel against USAAEFA flight test, with the Ames drive train (TM-88360 App. A): a second engine type, then Stage B2's limits, idle and engine failure on it. It also depends on altitude and temperature, which GenHel's maps don't, and gives fuel flow for a check against USAAEFA's level-flight data (ADA180181 Figs. 32–59; not yet made).
+
